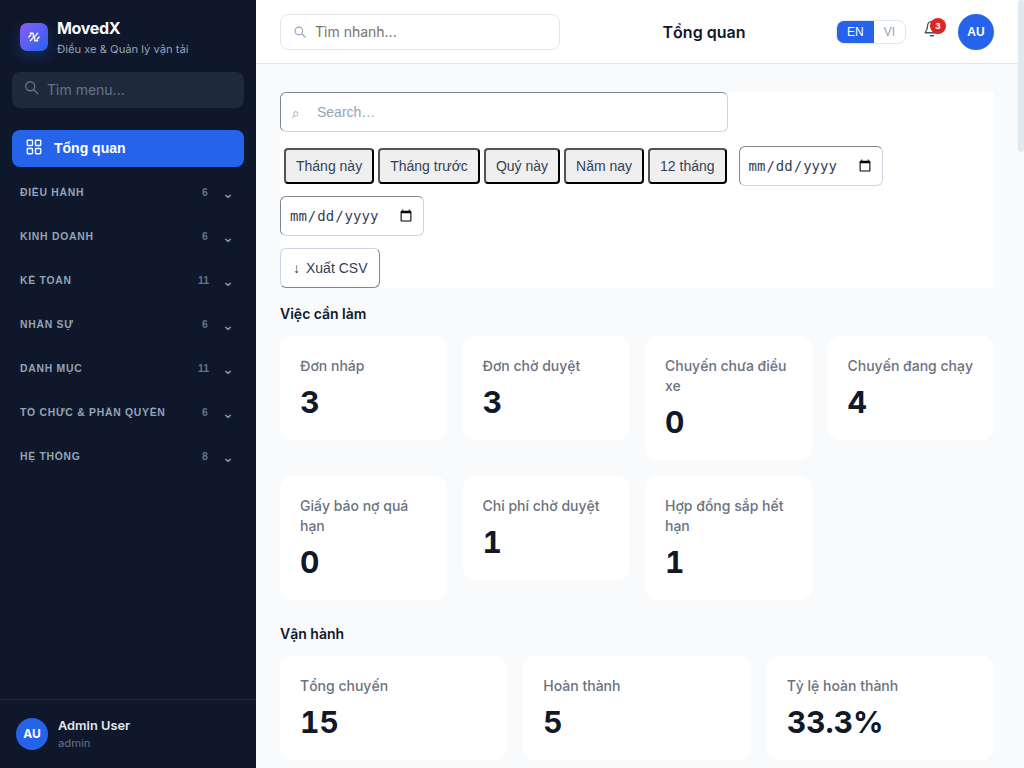
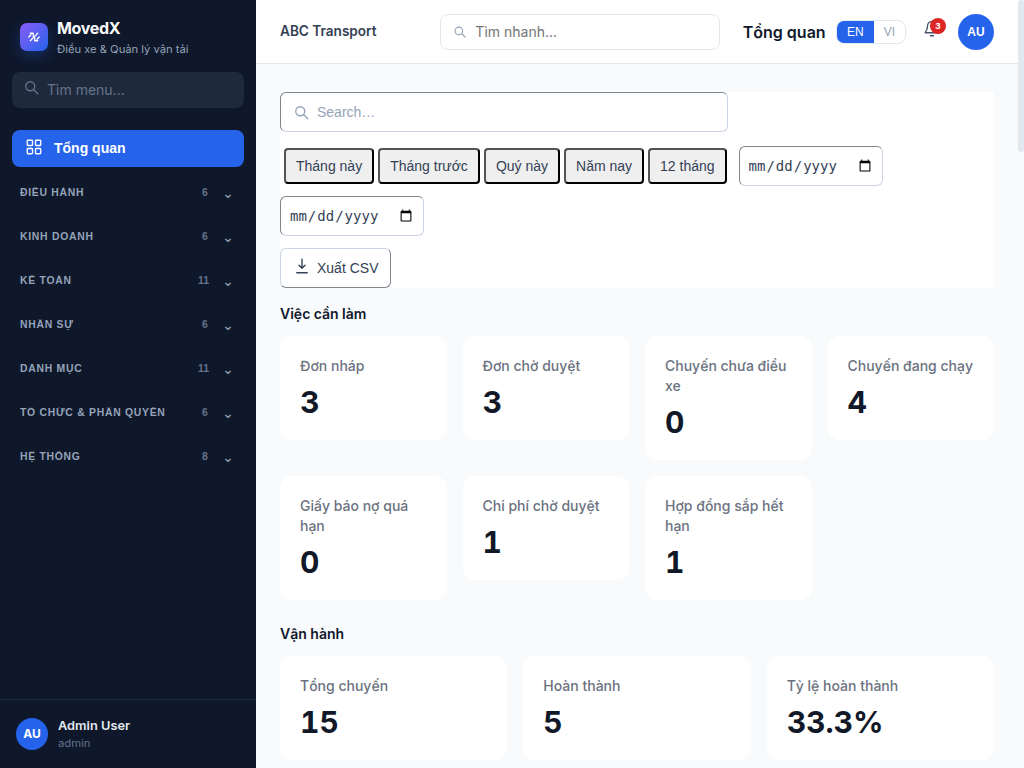
Render tenant identity in application shell

diff --git a/apps/tms/components/AppShell.ts b/apps/tms/components/AppShell.ts
@@ -250,6 +250,10 @@ export class AppShell extends BaseComponent {
 
     // Global command search mirrors the reference header search while keeping
     // navigation declarative in this route registry.
+    const tenantContext = html.take(header).div.className('tenant-context').getContext();
+    html.take(tenantContext).span.className('tenant-context-name').text(
+      this.state.company?.short_name || this.state.company?.name || 'TMS',
+    );
     const globalSearch = html.take(header).div.className('global-search').getContext();
     const globalSearchIcon = html.take(globalSearch).span.className('global-search-icon').getContext();
     appendIcon(globalSearchIcon, 'search');

diff --git a/apps/tms/services/repository.ts b/apps/tms/services/repository.ts
@@ -1536,6 +1536,14 @@ export class DuckDbRepository {
     return { ...rows[0], roles: rows[0].roles_csv ? rows[0].roles_csv.split(',').filter(Boolean) : [] };
   }
 
+  async getCompanyProfile(): Promise<any> {
+    const rows = await this.query(
+      `SELECT id, name, short_name, tax_code, address, phone, email, website
+       FROM company_profiles ORDER BY created_at ASC LIMIT 1`,
+    );
+    return rows[0] || null;
+  }
+
   async getUserPasswordHash(userId: any): Promise<string | null> {
     const rows = await this.query('SELECT password_hash FROM users WHERE id = ?', [userId]);
     return rows[0]?.password_hash || null;

diff --git a/apps/tms/app.ts b/apps/tms/app.ts
@@ -246,7 +246,14 @@ async function bootstrap() {
   await i18n.setLang(lang);
 
   // Mount app shell
-  _shell = new AppShell('app-shell', { user: _user });
+  let company: any = null;
+  try {
+    const companyRes = await fetch('/api/v1/company', { headers: { Authorization: `Bearer ${token}` } });
+    if (companyRes.ok) company = await companyRes.json();
+  } catch {
+    // The shell can still render if a deployment has no company profile yet.
+  }
+  _shell = new AppShell('app-shell', { user: _user, company });
   _shell.mount(app);
 
   // Register navigator so page-renderer navigate() calls use SPA pushState

diff --git a/apps/tms/server.ts b/apps/tms/server.ts
@@ -1089,6 +1089,12 @@ async function handleAPI(req: Request, url: URL): Promise<Response> {
     return json(profile);
   }
 
+  if (pathname === '/api/v1/company' && method === 'GET') {
+    const company = await repository.getCompanyProfile();
+    if (!company) return apiError(404, 'Company profile not found');
+    return json(company);
+  }
+
   if (pathname === '/api/v1/profile' && method === 'PATCH') {
     const body = await req.json();
     const allowed = ['name', 'preferred_lang', 'avatar_url'];

diff --git a/apps/tms/design-system.css b/apps/tms/design-system.css
@@ -335,6 +335,16 @@ body {
 }
 
 .global-search-icon { display: inline-flex; width: 15px; height: 15px; }
+.tenant-context {
+  display: inline-flex;
+  align-items: center;
+  min-width: 150px;
+  color: #334155;
+  font-size: 0.85rem;
+  font-weight: 600;
+  white-space: nowrap;
+}
+.tenant-context-name { overflow: hidden; text-overflow: ellipsis; }
 .global-search-icon .svg-icon { display: contents; }
 .global-search-icon svg { width: 15px; height: 15px; }
 

diff --git a/.scratch/movedx-feature-parity/evidence/completion-audit.md b/.scratch/movedx-feature-parity/evidence/completion-audit.md
@@ -15,6 +15,7 @@ Audited 2026-07-26 against `.scratch/movedx-feature-parity/PRD.md`.
 - Dashboard period controls match the supplied reference states with segmented `Tháng này`, `Tháng trước`, `Quý này`, `Năm nay`, and `12 tháng` presets at desktop and tablet widths.
 - Dashboard KPI information architecture now matches the supplied reference sections, including the seven-card task row, six-card operating/financial/HR rows, and VND financial formatting.
 - Operations navigation now exposes all six reference entries and maps each to a registered SPA route.
+- The shell reads the seeded company profile through an authenticated server endpoint and renders tenant identity in the header; it is not hard-coded in the client.
 
 ## Not Proven
 
